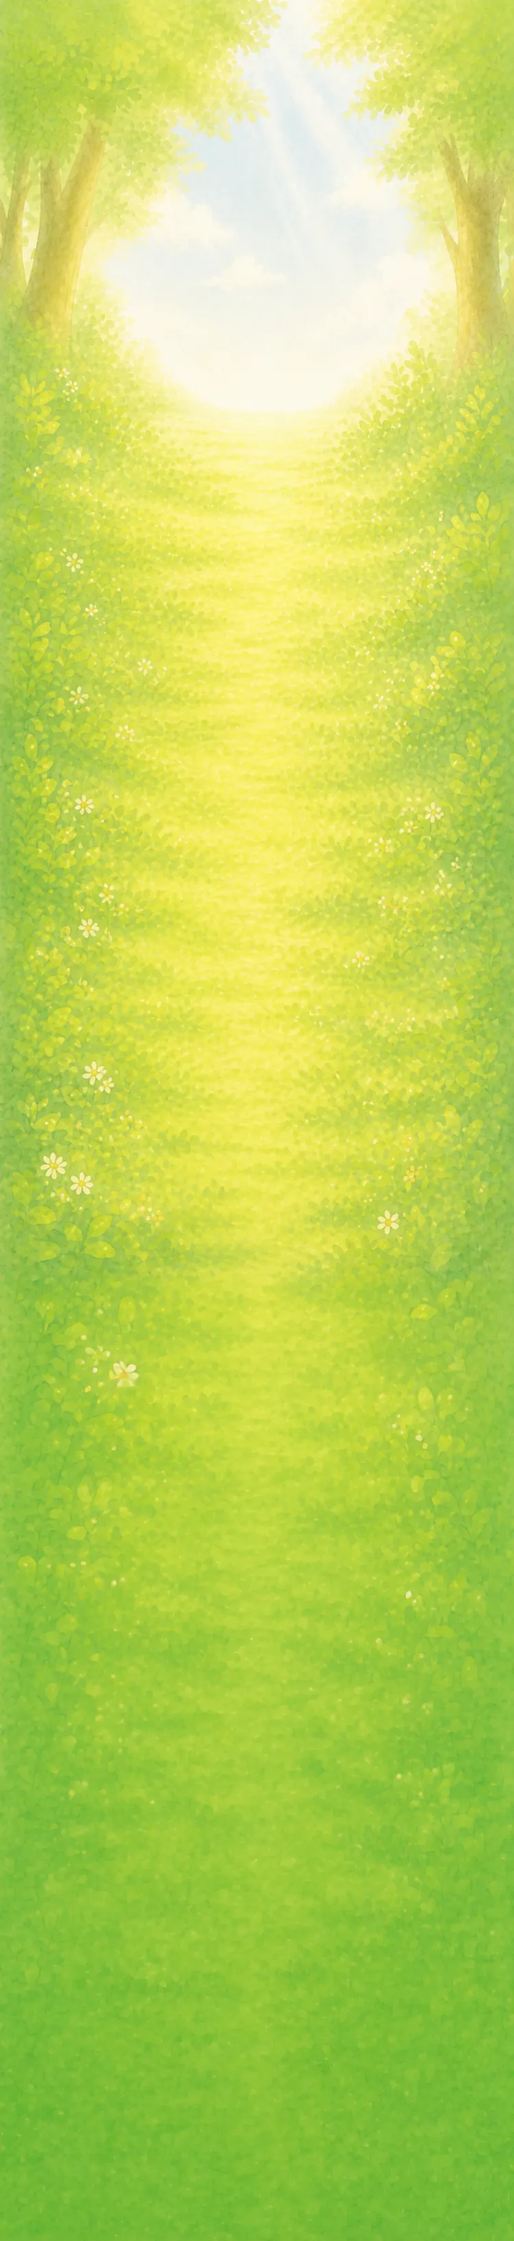
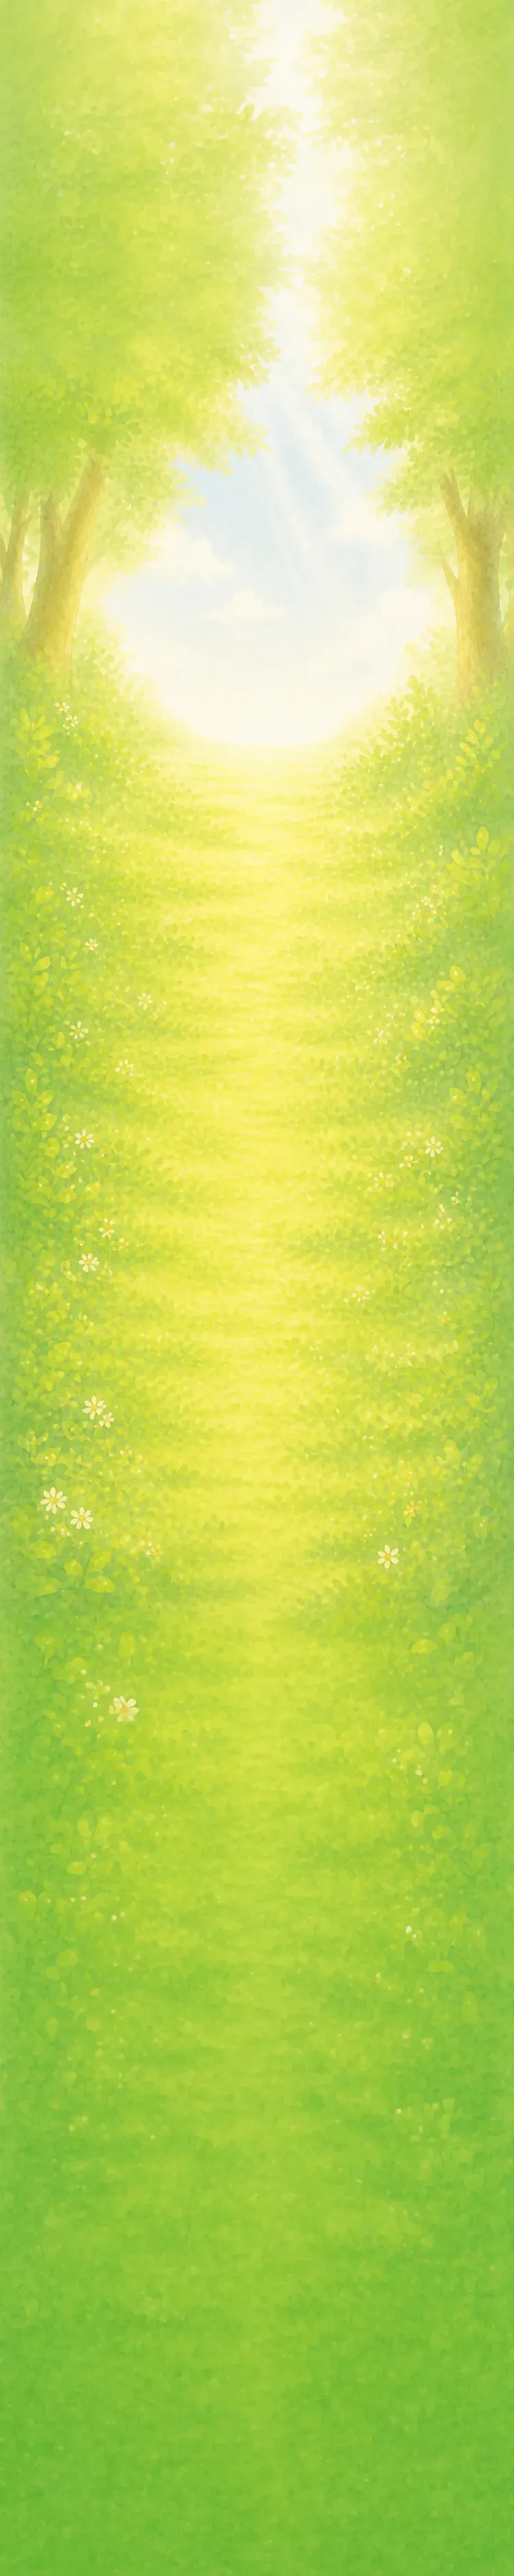
no message

diff --git a/tsubasa_thema/sass/page/_front.scss b/tsubasa_thema/sass/page/_front.scss
@@ -183,7 +183,7 @@
   .dummy-kv {
     width: 100%;
     // height: 250vh;
-    height: 200vh;
+    height: 140vh;
     // background-color: #ae5151;
     // @include imgCover('front/front-news-banner-bg.webp');
     // background-position: center top s(1450);
@@ -198,14 +198,19 @@
   .front-abput_schedule {
     @include imgCover('front/front-news-banner-bg.webp');
     background-position: center top;
+    // padding: s(243) 0 s(288);
+    padding: s(554) 0 s(288);
 
     .front-abput {
-      padding: s(77) 0 0;
+      position: relative;
 
       .front-abput-char {
-        position: relative;
+        position: absolute;
         width: s(225);
         height: s(225);
+        bottom: calc(100% + s(15));
+        left: 0;
+        right: 0;
         margin: 0 auto;
 
         .front-abput-char-img {
@@ -228,7 +233,8 @@
       .TL {
         display: block;
         width: s(195);
-        margin: s(31) auto 0;
+        // margin: s(31) auto 0;
+        margin: 0 auto 0;
       }
 
       .txt {
@@ -260,7 +266,6 @@
     }
 
     .front-schedule {
-      padding-bottom: s(288);
 
       .front-schedule-signboard {
         position: relative;
@@ -638,7 +643,7 @@
 
           .please-main-char {
             position: absolute;
-            top: smax(-115);
+            top: sm(-95);
             left: s(31);
             width: s(287);
             height: s(196);

diff --git a/tsubasa_thema/sass/page/_about.scss b/tsubasa_thema/sass/page/_about.scss
@@ -6,11 +6,30 @@
 .page-about {
 
   .about-kv_greeting {
-    @include imgCover('about/about-kv_greeting-bg.webp');
-    background-position: center top;
+    // @include imgCover('about/about-kv_greeting-bg.webp');
+    // background-position: center top;
+    position: relative;
+
+    .about-kv_greeting-bg {
+      position: absolute;
+      top: 0;
+      left: 0;
+      width: 100%;
+      height: 100%;
+      z-index: 2;
+
+      img {
+        width: 100%;
+        height: 100%;
+        object-fit: cover;
+        object-position: center top;
+      }
+    }
 
     .about-kv {
       padding: s(100) 0 0;
+      position: relative;
+      z-index:3;
 
       .about-kv-char-01 {
         position: relative;
@@ -101,8 +120,9 @@
     }
 
     .about-greeting {
-      padding: s(84) 0 s(302);
+      padding: s(84) 0 s(307);
       position: relative;
+      z-index: 3;
 
       .about-greeting-ttl {
         .C_front-ttl {
@@ -191,6 +211,14 @@
 
 
 
+    }
+
+    .about-kv_greeting-bg-char {
+      position: absolute;
+      bottom: 0;
+      left: 0;
+      width: 100%;
+      z-index: 1;
     }
   }
 

diff --git a/tsubasa_thema/js/front.js b/tsubasa_thema/js/front.js
@@ -52,8 +52,8 @@ $(function () {
 		const kvWhiteBgTl = gsap.timeline({
 			scrollTrigger: {
 				trigger: ".front-kv",
-				start: "190% top",
-				end: "200% top", // front-kvは100vhなので約50vhスクロールで完了
+				start: "150% top",
+				end: "165% top", // front-kvは100vhなので約50vhスクロールで完了
 				scrub: true,
 			},
 		});

diff --git a/tsubasa_thema/sass/commons/_unity.scss b/tsubasa_thema/sass/commons/_unity.scss
@@ -86,8 +86,11 @@ img {
 
 	// footer-mainと重なっている時は非表示（JSで付与）
 	&.is-footer-hidden {
-		opacity: 0;
-		pointer-events: none;
+
+		@media screen and (max-width: 600px){
+			opacity: 0;
+			pointer-events: none;	
+		}
 	}
 
 	@include pc {

diff --git a/tsubasa_thema/style.css b/tsubasa_thema/style.css
@@ -3,7 +3,7 @@ Theme Name: tsubasa_thema
 Theme URL:
 Description:
 Author:Ryuuuuu
-Version:1.0.0
+Version:1.0.3
 License:
 License URI:
 */

diff --git a/tsubasa_thema/pages/page-about.php b/tsubasa_thema/pages/page-about.php
@@ -13,6 +13,9 @@ Template Path: pages/
 
 <div class="page-about">
   <div class="about-kv_greeting">
+    <div class="about-kv_greeting-bg">
+      <img src="<?php echo get_template_directory_uri(); ?>/img/about/about-kv_greeting-bg.webp" alt="">
+    </div>
     <section class="about-kv">
       <div class="about-kv-char-01">
         <div class="char char-boss">
@@ -43,7 +46,7 @@ Template Path: pages/
         <img src="<?php echo get_template_directory_uri(); ?>/img/common/side-l-logo.svg" alt="つばさこども医院 小児外科/小児科">
       </div>
       <div class="about-kv-char-02">
-        <div class="char char-01">
+        <div class="char char-01 fuwafuwa duration-11">
           <img src="<?php echo get_template_directory_uri(); ?>/img/about/about-kv-char-05.webp" alt="">
         </div>
         <div class="char char-02 fuwafuwa duration-11 delay-03">
@@ -122,6 +125,9 @@ Template Path: pages/
         </div>
       </div>
     </section>
+    <div class="about-kv_greeting-bg-char">
+        <img src="<?php echo get_template_directory_uri(); ?>/img/about/about-kv_greeting-bg-char.webp" alt="">
+    </div>
   </div>
   <section class="about-features">
     <div class="about-features-ttl">

diff --git a/tsubasa_thema/front-page.php b/tsubasa_thema/front-page.php
@@ -132,7 +132,7 @@
               <?php get_template_part('inc/schedule-board'); ?>
             </div>
           </div>
-          <div class="front-schedule-signboard-char">
+          <div class="front-schedule-signboard-char fuwafuwa delay-05">
             <img src="<?php echo get_template_directory_uri(); ?>/img/front/front-schedule-signboard-char.webp" alt="">
           </div>
         </div>
@@ -218,7 +218,7 @@
                 <img src="<?php echo get_template_directory_uri(); ?>/img/front/front-services-link-bg.svg" alt="">
               </div>
               <div class="link-item-inr-txt">
-                <p class="TX TX-mini">予防接種・検診</p>
+                <p class="TX TX-mini">予防接種<br>・検診</p>
                 <div class="arrow">
                   <img src="<?php echo get_template_directory_uri(); ?>/img/front/front-services-link-arrow.svg" alt="">
                 </div>

diff --git a/tsubasa_thema/pages/page-contact.php b/tsubasa_thema/pages/page-contact.php
@@ -20,7 +20,7 @@ Template Path: pages/
       <div class="char-10">
         <img src="<?php echo get_template_directory_uri(); ?>/img/common/C_kv-char-10.webp" alt="">
       </div>
-      <div class="char-11">
+      <div class="char-11 fuwafuwa duration-11 delay-03">
         <img src="<?php echo get_template_directory_uri(); ?>/img/common/C_kv-char-11.webp" alt="">
       </div>
     </div>
